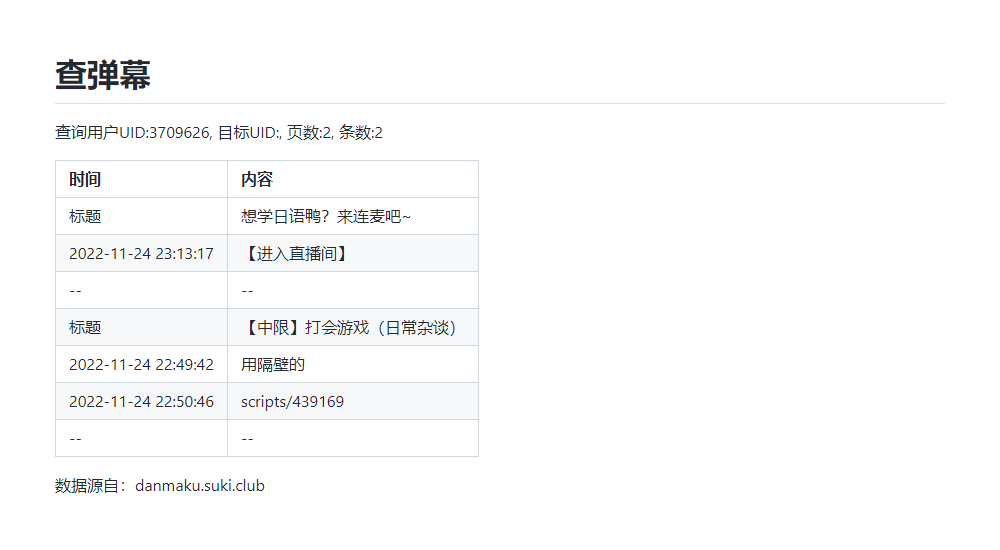
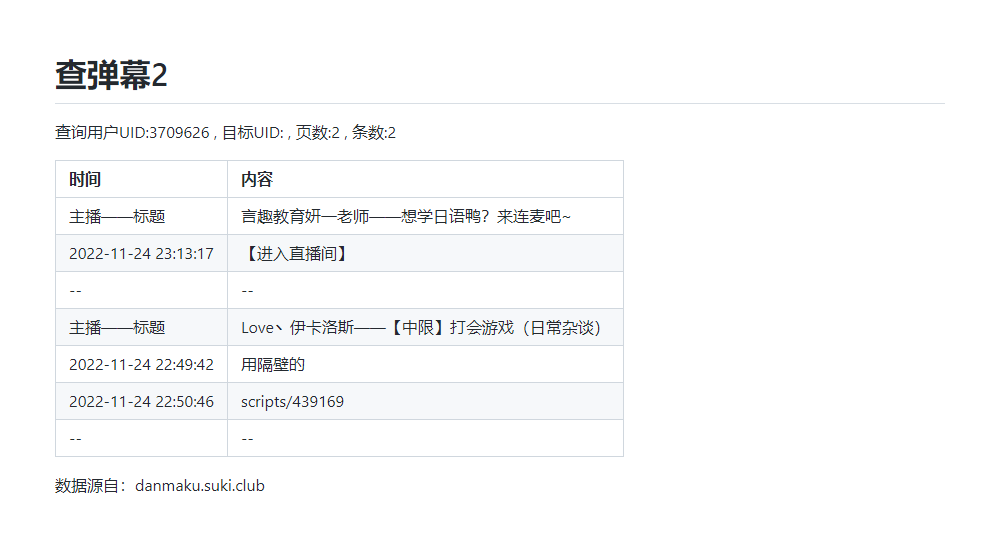
优化 /查弹幕2 命令，增加主播名

diff --git a/src/plugins/nonebot_plugin_searchBiliInfo/__init__.py b/src/plugins/nonebot_plugin_searchBiliInfo/__init__.py
@@ -25,7 +25,7 @@ from .data import DATA
 私人bot项目地址：https://github.com/Ikaros-521/LX_Bot
 本插件项目地址：https://github.com/Ikaros-521/nonebot_plugin_searchBiliInfo
 
-插件依赖：requests，nonebot_plugin_htmlrender
+插件依赖：aiohttp，nonebot_plugin_htmlrender
 
 插件功能：
 /查 昵称关键词或uid(uid需要以:或：或uid:或UID:打头)
@@ -35,6 +35,7 @@ from .data import DATA
 /查收益 昵称关键词或uid 收益类型(默认1: 礼物，2: 上舰，3: SC) 倒叙第n场(从0开始)
 /查观看 昵称关键词或uid
 /查弹幕 查询的目标人昵称关键词或uid 查询的主播昵称关键词或uid 页数 条数
+/查弹幕2 查询的目标人昵称关键词或uid 页数 条数
 /营收 日/周/月榜 人数（不填默认100）
 '''
 
@@ -248,8 +249,9 @@ async def _(bot: Bot, event: Event, state: T_State):
 
     try:
         for i in range(len(info_json['data']['data'])):
+            name = info_json['data']['data'][i]['channel']['name']
             title = info_json['data']['data'][i]['live']['title']
-            out_str += '| 标题 | ' + title + ' |\n'
+            out_str += '| 主播——标题 | ' + name + '——' + title + ' |\n'
             for j in range(len(info_json['data']['data'][i]['danmakus'])):
                 date = await timestamp_to_date(info_json['data']['data'][i]['danmakus'][j]['sendDate'])
                 if info_json['data']['data'][i]['danmakus'][j]['type'] in [0, 1, 2, 3]:

diff --git a/src/plugins/nonebot_plugin_searchBiliInfo/README.md b/src/plugins/nonebot_plugin_searchBiliInfo/README.md
@@ -227,6 +227,9 @@ bot返回内容(图片)：
 修复查弹幕数据解析bug。 
 图片UI优化。  
 
+### 1.3.2
+优化 /查弹幕2 命令，增加主播名。  
+
 </details>
 
 ## 致谢
